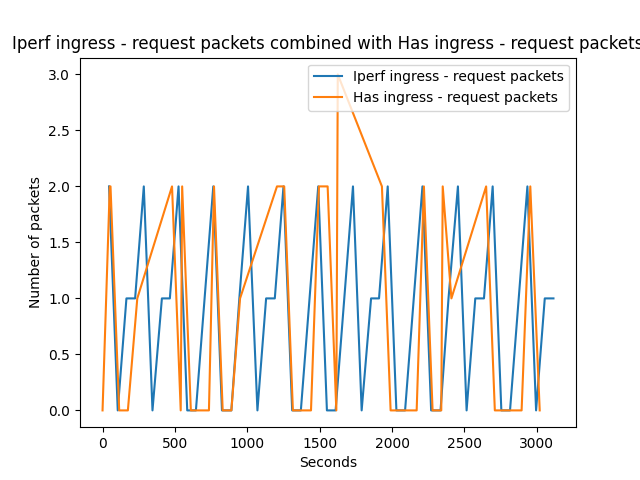
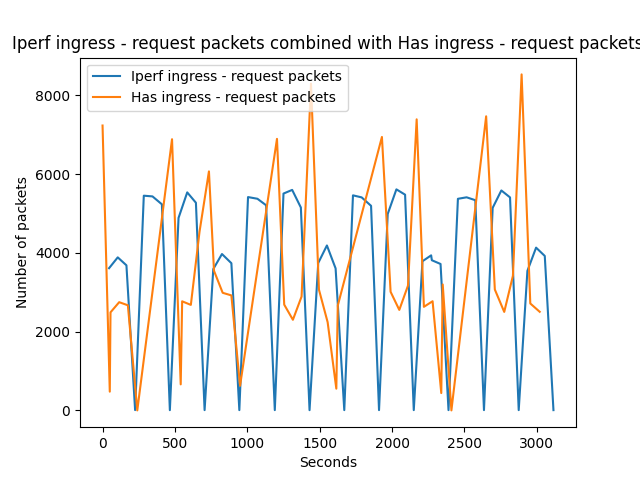
fix: fix

diff --git a/1.4/graph14.py b/1.4/graph14.py
@@ -13,13 +13,14 @@ class LINE_INDEX:
     END = 1
     SOURCE_INTERFACE = 2
     SORUCE_IP = 3
-    DESTINATION_INTERFACE = 4
-    DESTINATION_IP = 5
-    DESTIONATION_PORT = 6
-    P = 7
-    FL = 8
-    PACKETS = 9
-    OCTETS = 10
+    SOURCE_PORT = 4
+    DESTINATION_INTERFACE = 5
+    DESTINATION_IP = 6
+    DESTIONATION_PORT = 7
+    P = 8
+    FL = 9
+    PACKETS = 10
+    OCTETS = 11
 
 
 class IP_DOMAIN_INFO:
@@ -120,6 +121,7 @@ def groupBySeconds(dictElementArray):
     sortedDictElementKeys = [str(x) for x in sorted(dictElementKeys)]
 
     for element in sortedDictElementKeys:
+        print(element)
 
         result = {
             InterstingFields.REQUEST_TIME: 0,
@@ -132,12 +134,12 @@ def groupBySeconds(dictElementArray):
             result[InterstingFields.REQUEST_PKTS] += innerEl[InterstingFields.REQUEST_PKTS]
             result[InterstingFields.REQUEST_OCTETS] += innerEl[InterstingFields.REQUEST_OCTETS]
 
-        result[InterstingFields.REQUEST_TIME] = result[InterstingFields.REQUEST_TIME] / \
-            len(dictElementArray[element])
-        result[InterstingFields.REQUEST_PKTS] = result[InterstingFields.REQUEST_PKTS] / \
-            len(dictElementArray[element])
-        result[InterstingFields.REQUEST_OCTETS] = result[InterstingFields.REQUEST_OCTETS] / \
-            len(dictElementArray[element])
+        # result[InterstingFields.REQUEST_TIME] = result[InterstingFields.REQUEST_TIME] / \
+        #     len(dictElementArray[element])
+        # result[InterstingFields.REQUEST_PKTS] = result[InterstingFields.REQUEST_PKTS] / \
+        #     len(dictElementArray[element])
+        # result[InterstingFields.REQUEST_OCTETS] = result[InterstingFields.REQUEST_OCTETS] / \
+        #     len(dictElementArray[element])
 
         resultdict[element] = result
 
